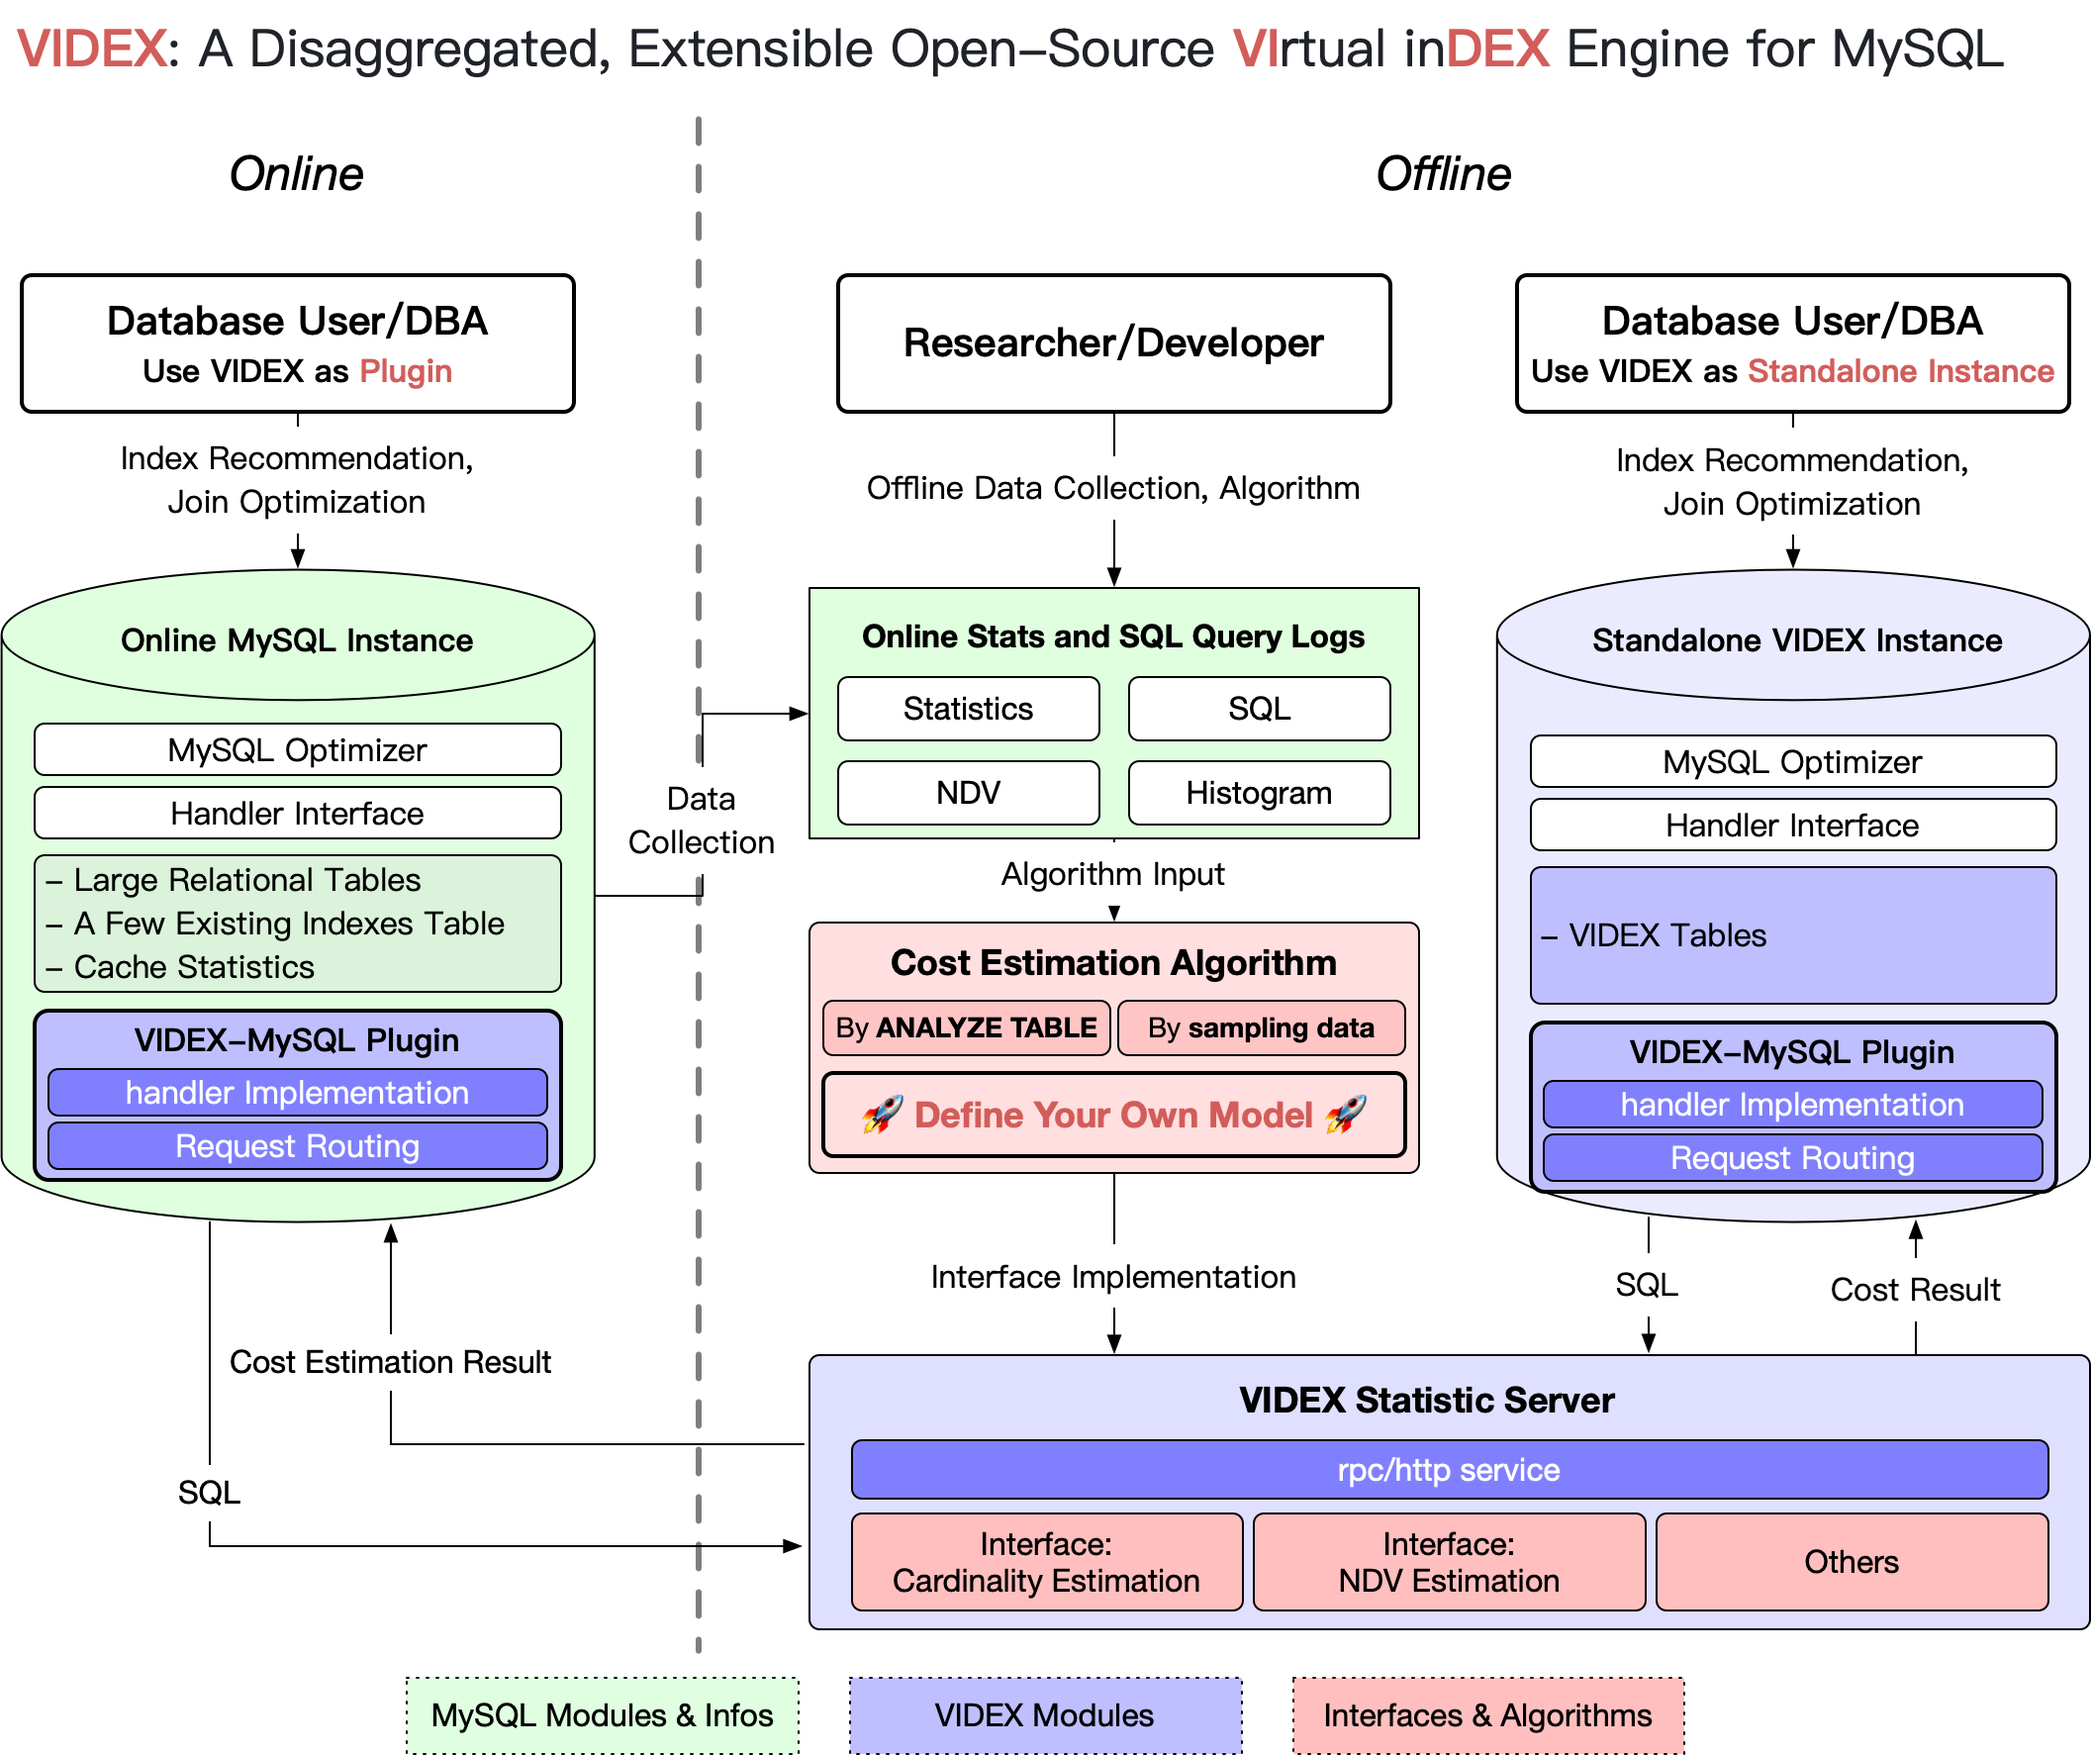
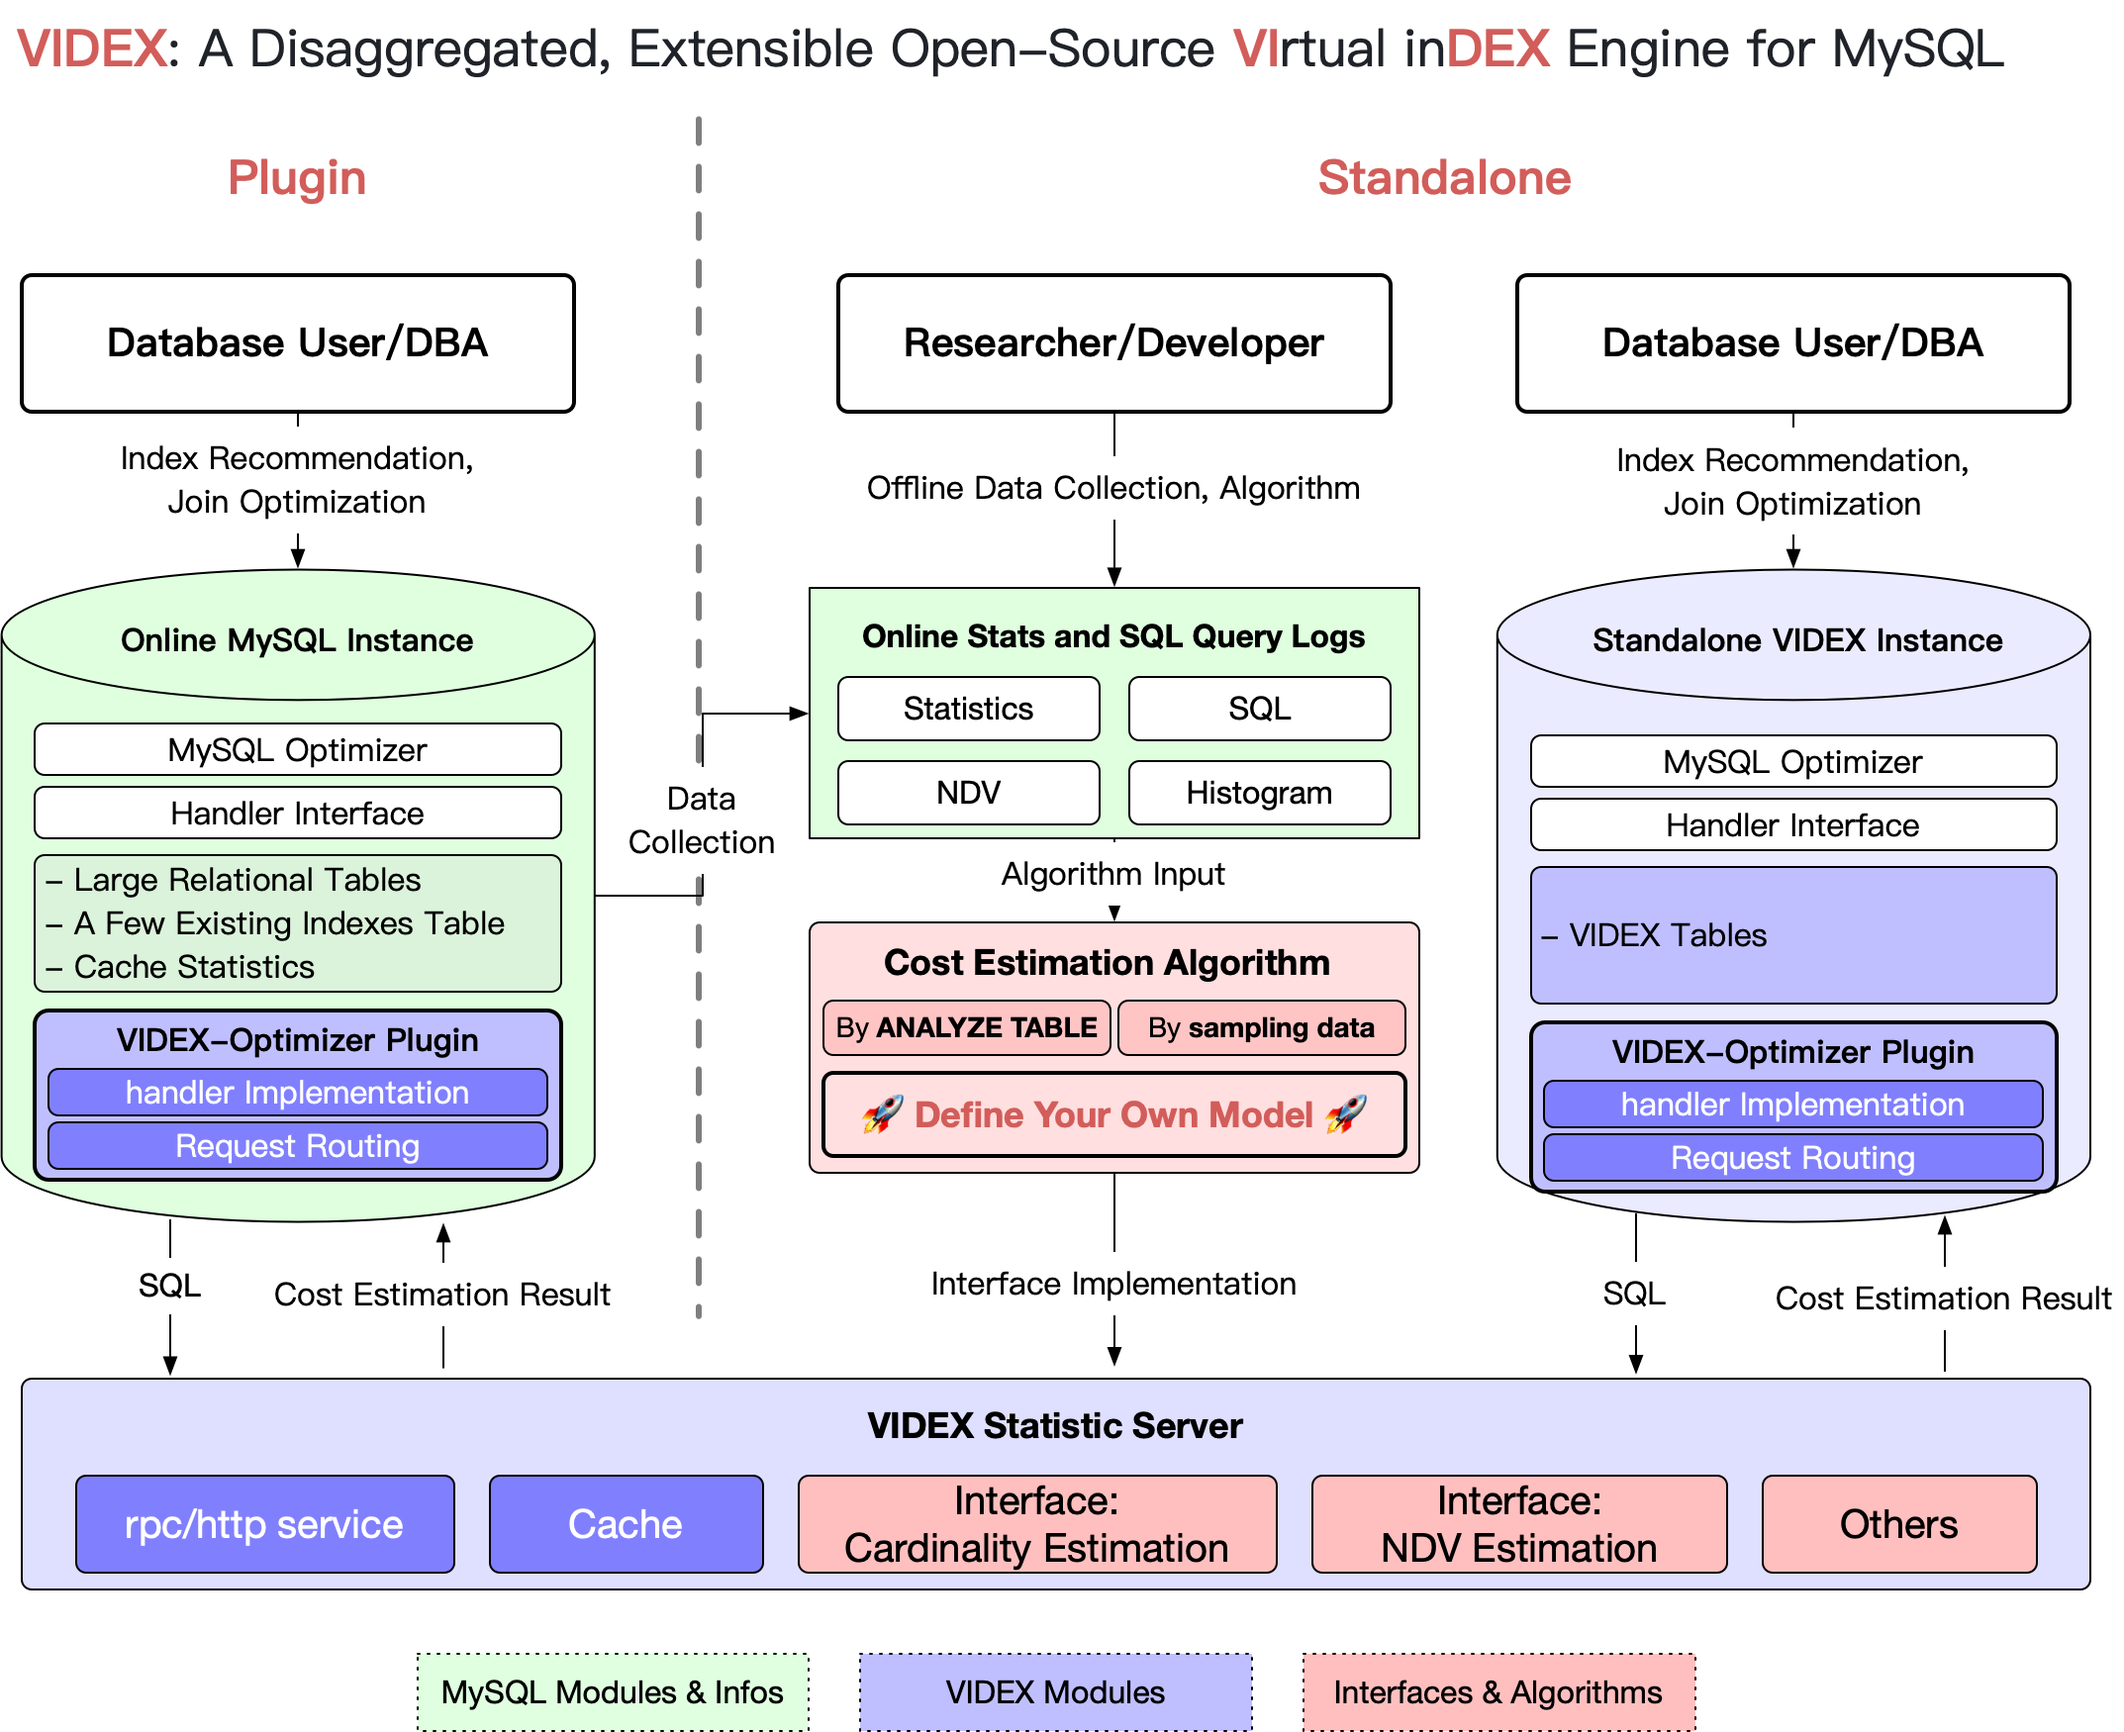
fix videx-mysql

diff --git a/README_zh.md b/README_zh.md
@@ -54,8 +54,8 @@ VIDEX 提供两种启动模式：
 
 VIDEX 包含两部分：
 
-- **VIDEX-MySQL**：全面梳理了 MySQL handler 的超过90个接口函数，并实现与索引（Index）相关的部分。
-- **VIDEX-Statistic-Server**（简称 **VIDEX-Server**）：根据收集的统计信息和估算算法计算独立值（NDV） 和基数（Cardinality），并将结果返回给 VIDEX-MySQL 实例。
+- **VIDEX-Optimizer-Plugin** （简称为 **VIDEX-Optimizer**）：全面梳理了 MySQL handler 的超过90个接口函数，并实现与索引（Index）相关的部分。
+- **VIDEX-Statistic-Server**（简称 **VIDEX-Server**）：根据收集的统计信息和估算算法计算独立值（NDV） 和基数（Cardinality），并将结果返回给 VIDEX-Optimizer 实例。
 
 VIDEX 根据原始实例中指定的目标数据库（`target_db`）创建一个虚拟数据库，并创建相同结构的关系表（具有相同的 DDL，但将引擎从 `InnoDB` 更换为 `VIDEX`）。
 
@@ -82,7 +82,7 @@ python3.9 -m pip install -e . --use-pep517
 ### 2.2 启动 VIDEX (Docker方式)
 
 为简化部署，我们提供了预编译的 Docker 镜像，包含:
-- VIDEX-MySQL: 基于 [Percona-MySQL 8.0.34-26](https://github.com/percona/percona-server/tree/release-8.0.34-26)，并集成了 VIDEX 插件
+- VIDEX-Optimizer: 基于 [Percona-MySQL 8.0.34-26](https://github.com/percona/percona-server/tree/release-8.0.34-26)，并集成了 VIDEX 插件
 - VIDEX-Server: ndv 和 cardinality 算法服务
 
 #### 2.2.1 安装 Docker
@@ -115,7 +115,7 @@ docker run -d -p 13308:13308 -p 5001:5001 --name videx kangrongme/videx:0.0.2
 组件 | 连接信息
 ---|---
 Target-MySQL (生产库) | 127.0.0.1:13308, 用户名:videx, 密码:password
-VIDEX-MySQL (插件) | 同 Target-MySQL
+VIDEX-Optimizer-Plugin (插件) | 同 Target-MySQL
 VIDEX-Server | 127.0.0.1:5001
 
 #### Step 1: 导入测试数据
@@ -149,7 +149,7 @@ python src/sub_platforms/sql_opt/videx/scripts/videx_build_env.py \
 You are running in non-task mode.
 To use VIDEX, please set the following variable before explaining your SQL:
 --------------------
--- Connect VIDEX-MySQL: mysql -h127.0.0.1 -P13308 -uvidex -ppassowrd -Dvidex_tpch_tiny
+-- Connect VIDEX-Optimizer-Plugin: mysql -h127.0.0.1 -P13308 -uvidex -ppassowrd -Dvidex_tpch_tiny
 USE videx_tpch_tiny;
 SET @VIDEX_SERVER='127.0.0.1:5001';
 -- EXPLAIN YOUR_SQL;
@@ -161,12 +161,12 @@ SET @VIDEX_SERVER='127.0.0.1:5001';
 
 #### Step 3: EXPLAIN SQL
 
-连接到 `VIDEX-MySQL` 上，执行 EXPLAIN。
+连接到 VIDEX 实例，或者 VIDEX-Optimizer-Plugin 所在的实例上，执行 EXPLAIN。
 
 为了展示 VIDEX 的有效性，我们对比了 TPC-H Q21 的 EXPLAIN 细节，这是一个包含四表连接的复杂查询，涉及 `WHERE`、`聚合`、`ORDER BY`、
 `GROUP BY`、`EXISTS` 和 `自连接` 等多种部分。MySQL 可以选择的索引有 11 个，分布在 4 个表上。
 
-由于 VIDEX-Server 部署在 VIDEX-MySQL 所在节点、并且开启了默认端口（5001），因此我们不需要额外设置 `VIDEX_SERVER`。
+由于 VIDEX-Server 部署在 VIDEX-Optimizer-Plugin 所在节点、并且开启了默认端口（5001），因此我们不需要额外设置 `VIDEX_SERVER`。
 如果 VIDEX-Server 部署在其他节点，则需要先执行 `SET @VIDEX_SERVER`。
 
 ```sql
@@ -251,8 +251,8 @@ python src/sub_platforms/sql_opt/videx/scripts/videx_build_env.py \
 
 指定原始数据库和 videx-stats-server 的连接方式。 从原始数据库收集统计信息，保存到一个中间文件中， 然后将它们导入到 VIDEX 数据库。
 
-> - 如果 VIDEX-MySQL 是单独启动、而非在原库（target-MySQL）上安装插件，用户可以通过 `--videx` 参数单独指定 `VIDEX-MySQL` 地址。
-> - 如果 VIDEX-Server 是单独启动、而非部署在 VIDEX-MySQL 所在机器上，用户可以通过 `--videx_server` 参数单独指定 `VIDEX-Server` 地址。
+> - 如果 VIDEX-Optimizer 是单独启动、而非在原库（target-MySQL）上安装插件，用户可以通过 `--videx` 参数单独指定 `VIDEX-Optimizer` 地址。
+> - 如果 VIDEX-Server 是单独启动、而非部署在 VIDEX-Optimizer-Plugin 所在机器上，用户可以通过 `--videx_server` 参数单独指定 `VIDEX-Server` 地址。
 > - 如果用户已经生成了元数据文件、可以指定 `--meta_path` 参数，跳过采集过程。
 
 命令样例如下：
@@ -281,7 +281,7 @@ python videx_build_env.py --target 127.0.0.1:13308:tpch_tiny:videx:password \
 ```python
 class VidexModelBase(ABC):
     """
-    Abstract cost model class. VIDEX-Statistic-Server receives requests from VIDEX-MySQL for Cardinality
+    Abstract cost model class. VIDEX-Statistic-Server receives requests from VIDEX-Optimizer for Cardinality
     and NDV estimates, parses them into structured data for ease use of developers.
 
     Implement these methods to inject Cardinality and NDV algorithms into MySQL.
@@ -324,7 +324,7 @@ class VidexModelBase(ABC):
 
 ### Method 2: 全新实现 VIDEX-Statistic-Server
 
-VIDEX-MySQL 将基于用户指定的地址，通过 `HTTP` 请求索引元数据、 NDV 和基数估计结果。
+VIDEX-Optimizer 将基于用户指定的地址，通过 `HTTP` 请求索引元数据、 NDV 和基数估计结果。
 因此，用户可以用任何编程语言实现 HTTP 响应、并在任意位置启动 VIDEX-Server。
 
 

diff --git a/README.md b/README.md
@@ -55,8 +55,8 @@ We expect that VIDEX can provide users with a better platform to more easily tes
 
 VIDEX consists of two parts:
 
-- **VIDEX-MySQL**: Conducted a thorough review of over 90 interface functions in the MySQL handler, and implement the index-related parts.
-- **VIDEX-Statistic-Server**: The cost estimation service calculates NDV and Cardinality based on collected statistical information and estimation algorithms, and returns the results to the VIDEX-MySQL instance. 
+- **VIDEX-Optimizer-Plugin** (abbr. **VIDEX-Optimizer**): Conducted a thorough review of over 90 interface functions in the MySQL handler, and implement the index-related parts.
+- **VIDEX-Statistic-Server** (abbr. **VIDEX-Statistic**): The cost estimation service calculates NDV and Cardinality based on collected statistical information and estimation algorithms, and returns the results to the VIDEX-Optimizer instance. 
 
 VIDEX creates an individual virtual database according to the specified target database in the raw instance,
 containing a series of tables with the same DDL, but replacing the engine from `InnoDB` to `VIDEX`.
@@ -84,7 +84,7 @@ python3.9 -m pip install -e . --use-pep517
 ### 2.2 Launch VIDEX (Docker Mode)
 
 For simplified deployment, we provide pre-built Docker images containing:
-- VIDEX-MySQL: Based on [Percona-MySQL 8.0.34-26](https://github.com/percona/percona-server/tree/release-8.0.34-26) with integrated VIDEX plugin
+- VIDEX-Optimizer: Based on [Percona-MySQL 8.0.34-26](https://github.com/percona/percona-server/tree/release-8.0.34-26) with integrated VIDEX plugin
 - VIDEX-Server: NDV and cardinality algorithm service
 
 #### Install Docker
@@ -117,7 +117,7 @@ The example assumes all components are deployed locally via Docker:
 Component | Connection Info
 ---|---
 Target-MySQL (Production DB) | 127.0.0.1:13308, username:videx, password:password  
-VIDEX-MySQL (Plugin) | Same as Target-MySQL
+VIDEX-Optimizer (Plugin) | Same as Target-MySQL
 VIDEX-Server | 127.0.0.1:5001
 
 #### Step 1: Import Test Data
@@ -150,7 +150,7 @@ Output:
 You are running in non-task mode.
 To use VIDEX, please set the following variable before explaining your SQL:
 --------------------
--- Connect VIDEX-MySQL: mysql -h127.0.0.1 -P13308 -uvidex -ppassword -Dvidex_tpch_tiny
+-- Connect VIDEX-Optimizer: mysql -h127.0.0.1 -P13308 -uvidex -ppassword -Dvidex_tpch_tiny
 USE videx_tpch_tiny;
 SET @VIDEX_SERVER='127.0.0.1:5001';
 -- EXPLAIN YOUR_SQL;
@@ -162,11 +162,11 @@ If users have prepared metadata files, they can specify `--meta_path` to skip co
 
 #### Step 3: EXPLAIN SQL
 
-Connect to `VIDEX-MySQL` and execute EXPLAIN.
+Connect to `VIDEX-Optimizer` and execute EXPLAIN.
 
 To demonstrate VIDEX's effectiveness, we compare EXPLAIN details for TPC-H Q21, a complex query with four-table joins involving `WHERE`, `aggregation`, `ORDER BY`, `GROUP BY`, `EXISTS` and `self-joins`. MySQL can choose from 11 indexes across 4 tables.
 
-Since VIDEX-Server is deployed on the VIDEX-MySQL node with default port (5001), we don't need to set `VIDEX_SERVER` additionally.
+Since VIDEX-Server is deployed on the VIDEX-Optimizer node with default port (5001), we don't need to set `VIDEX_SERVER` additionally.
 If VIDEX-Server is deployed elsewhere, execute `SET @VIDEX_SERVER` first.
 
 ```sql
@@ -250,8 +250,8 @@ Like TPCH-tiny, VIDEX generates nearly identical query plans to InnoDB for `TPCH
 
 Specify connection methods for original database and videx-stats-server. Collect statistics from original database, save to intermediate file, then import to VIDEX database.
 
-> - If VIDEX-MySQL starts separately rather than installing plugin on target-MySQL, users can specify `VIDEX-MySQL` address via `--videx`
-> - If VIDEX-Server starts separately rather than deploying on VIDEX-MySQL machine, users can specify `VIDEX-Server` address via `--videx_server`
+> - If VIDEX-Optimizer starts separately rather than installing plugin on target-MySQL, users can specify `VIDEX-Optimizer` address via `--videx`
+> - If VIDEX-Server starts separately rather than deploying on VIDEX-Optimizer machine, users can specify `VIDEX-Server` address via `--videx_server`
 > - If users have generated metadata file, specify `--meta_path` to skip collection
 
 Command example:
@@ -278,7 +278,7 @@ and index metadata formats, providing a basic (heuristic) algorithm for ndv and 
 ```python
 class VidexModelBase(ABC):
     """
-    Abstract cost model class. VIDEX-Statistic-Server receives requests from VIDEX-MySQL for Cardinality
+    Abstract cost model class. VIDEX-Statistic-Server receives requests from VIDEX-Optimizer for Cardinality
     and NDV estimates, parses them into structured data for ease use of developers.
 
     Implement these methods to inject Cardinality and NDV algorithms into MySQL.
@@ -321,7 +321,7 @@ class VidexModelBase(ABC):
 
 ### Method 2: Implement a New VIDEX-Statistic-Server
 
-VIDEX-MySQL will request NDV and cardinality results via HTTP based on the user-specified address. Therefore, users can implement the HTTP response in any programming language.
+VIDEX-Optimizer will request NDV and cardinality results via HTTP based on the user-specified address. Therefore, users can implement the HTTP response in any programming language.
 
 
 
